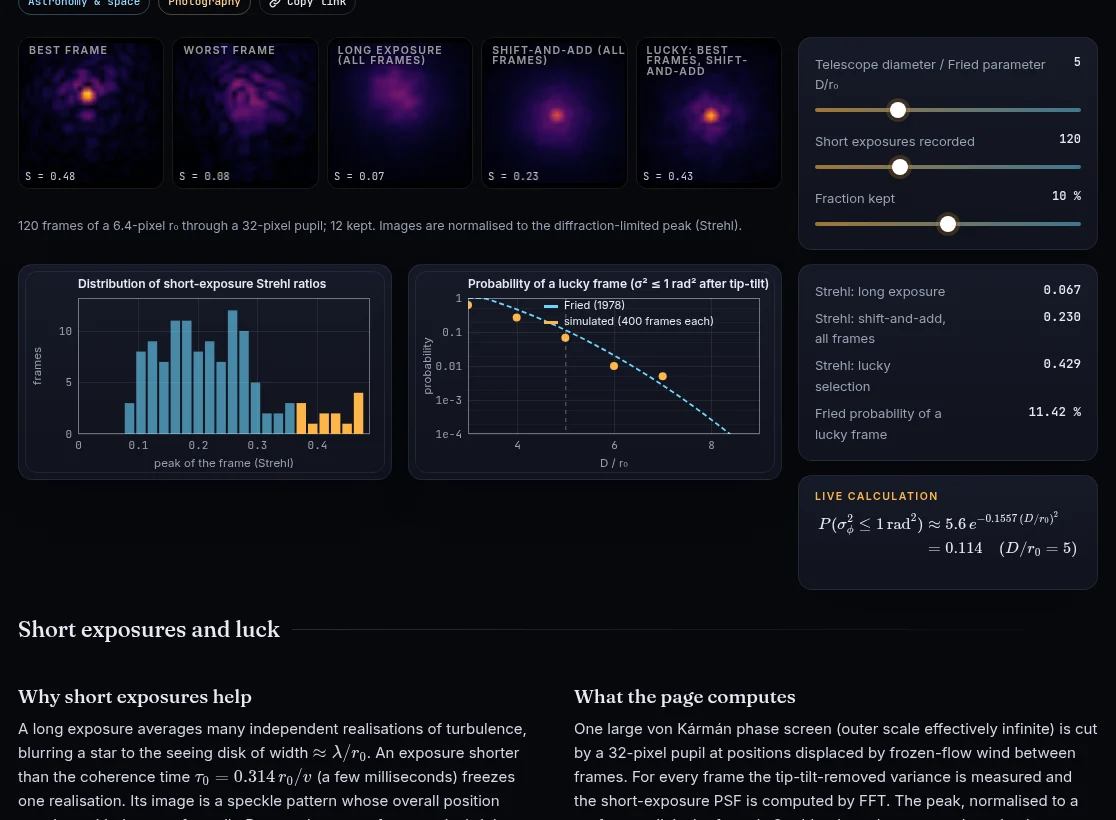
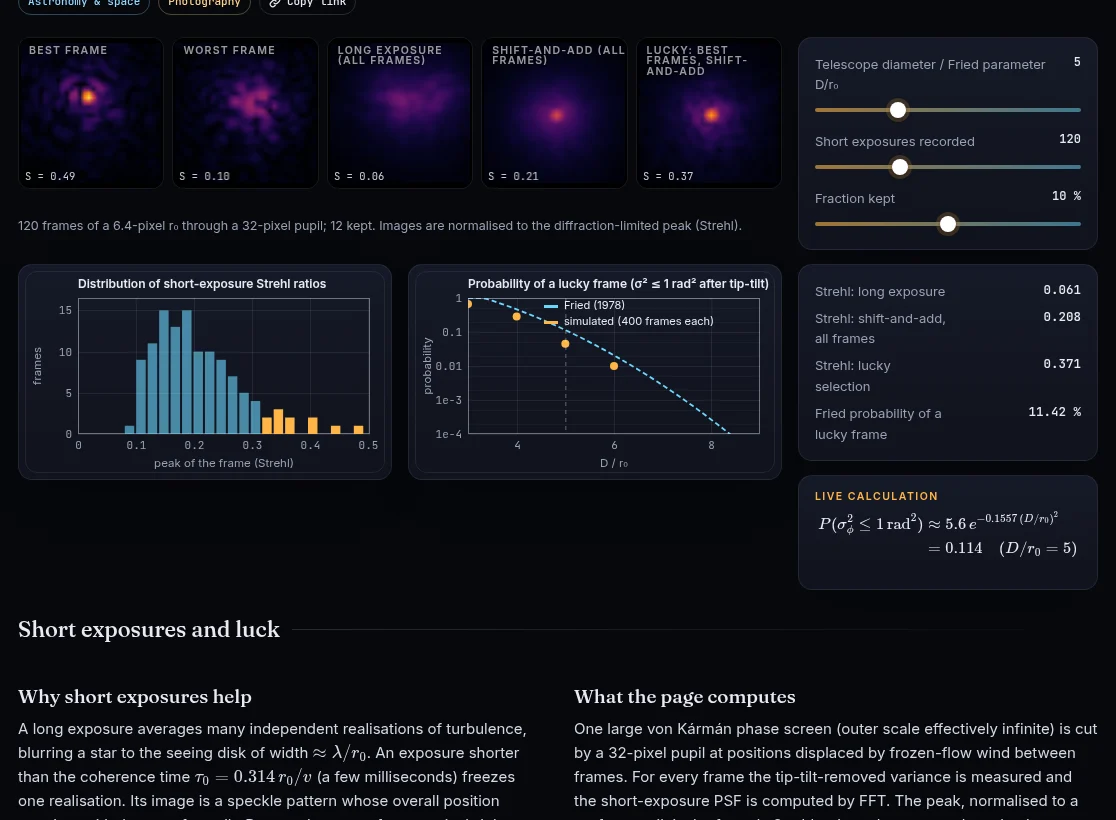
refactor: one seeded random-number generator for all simulations
Add js/lib/random.js (mulberry32 uniforms, Box–Muller normals, Poisson) and
use it everywhere instead of ten local 32-bit LCGs, whose consecutive outputs
fed to Box–Muller made sums of normal deviates ~8 % too wide. Add tests for
moments, serial correlation and Poisson statistics; regenerate affected
screenshots; consolidate the Unreleased changelog headings.

diff --git a/js/modules/noise.js b/js/modules/noise.js
@@ -1,24 +1,14 @@
 import { h, controls, stage, readouts, imageCanvas, fmt, texNum } from '../lib/ui.js';
 import { header, lab, theory, references, liveCalc } from '../lib/page.js';
 import { SENSORS, pitchUm } from '../lib/sensors.js';
+import { makeRng as sharedRng } from '../lib/random.js';
 import { plot, logRange } from '../lib/plot.js';
 
 const PHOTONS_PER_LUXS_UM2 = 1.2e4; // broadband daylight, 400–700 nm
 const K_METER = 12.5, T_LENS = 0.9;
 
-// Poisson sampler (Knuth for small means, Gaussian approximation above 40)
-function makeRng(seed) {
-  let s = seed >>> 0;
-  const u = () => { s = (s * 1664525 + 1013904223) >>> 0; return (s + 0.5) / 4294967296; };
-  const gauss = () => Math.sqrt(-2 * Math.log(u())) * Math.cos(2 * Math.PI * u());
-  const poisson = (l) => {
-    if (l > 40) return Math.max(0, Math.round(l + Math.sqrt(l) * gauss()));
-    const L = Math.exp(-l); let k = 0, p = 1;
-    do { k++; p *= u(); } while (p > L);
-    return k - 1;
-  };
-  return { u, gauss, poisson };
-}
+// Uniform, Gaussian and Poisson deviates from the shared seeded stream (js/lib/random.js)
+function makeRng(seed) { const r = sharedRng(seed); return { u: r.u, gauss: r.g, poisson: r.poisson }; }
 
 export default function mount(root, meta) {
   root.append(header({ ...meta, lede: 'Light arrives as photons, and photons arrive at random. Every pixel value is therefore a random variable whose spread is set by physics (shot noise) and by electronics (read noise, dark current, gain). Exposure sets the photon count, and ISO only decides where the analogue amplifier puts the clipping point. Here the full chain is simulated pixel by pixel.', domains: ['photo', 'video', 'space'] }));

diff --git a/js/lib/stacking.js b/js/lib/stacking.js
@@ -1,5 +1,6 @@
 // Astrophotography stacking: the CCD equation for a sum of N sub-exposures, sky brightness from
 // light pollution, and the sub-exposure length beyond which read noise stops mattering.
+import { makeRng } from './random.js';
 // Photon zero point: a V = 0 source delivers ≈ 1.0 × 10⁶ photons s⁻¹ cm⁻² in a 100 nm band.
 export const ZP = 1.0e6;
 // Bortle class → typical zenith sky brightness in V (mag/arcsec²).
@@ -18,13 +19,8 @@ export function stackSNR(Fo, Fs, Fd, sigma, t, N) {
 // σ_r² = ε F_s t  →  t = σ_r²/(ε F_s)  (ε = 0.1 ↔ ≈ 5 % in noise).
 export const skyLimitedSub = (Fs, sigma, eps = 0.1) => (sigma * sigma) / (eps * Fs);
 
-// Gaussian deviates for the image simulation: mulberry32 uniforms (a plain 32-bit LCG feeding
-// Box–Muller with consecutive outputs leaves correlations that bias sums of many draws).
-export function rng(seed) {
-  let a = seed >>> 0;
-  const u = () => { a = (a + 0x6d2b79f5) >>> 0; let t = a; t = Math.imul(t ^ (t >>> 15), t | 1); t ^= t + Math.imul(t ^ (t >>> 7), t | 61); return (((t ^ (t >>> 14)) >>> 0) + 0.5) / 4294967296; };
-  return () => Math.sqrt(-2 * Math.log(u())) * Math.cos(2 * Math.PI * u());
-}
+// Gaussian deviates for the image simulation (see js/lib/random.js).
+export function rng(seed) { return makeRng(seed).g; }
 // A faint galaxy (exponential disk, central μ₀, scale length h arcsec, inclination) plus stars,
 // rendered as an object-rate map (e⁻/s/pixel) for the given optics.
 export function galaxyRate(W, H, p, D, q, mu0, hArc) {

diff --git a/js/lib/detectors.js b/js/lib/detectors.js
@@ -1,14 +1,9 @@
 // Detector physics for space astronomy: up-the-ramp sampling of infrared arrays with cosmic-ray
 // jump detection, inter-pixel capacitance (IPC), charge-transfer inefficiency (CTI) in radiation-
 // damaged CCDs, and image persistence. Charges in electrons, times in seconds.
+import { makeRng } from './random.js';
 
-export function rng(seed) {
-  let s = seed >>> 0;
-  const u = () => { s = (s * 1664525 + 1013904223) >>> 0; return (s + 0.5) / 4294967296; };
-  const g = () => Math.sqrt(-2 * Math.log(u())) * Math.cos(2 * Math.PI * u());
-  const poisson = (mu) => { if (mu > 30) return Math.max(0, Math.round(mu + Math.sqrt(mu) * g())); const L = Math.exp(-mu); let k = 0, p = 1; do { k++; p *= u(); } while (p > L); return k - 1; };
-  return { u, g, poisson };
-}
+export function rng(seed) { return makeRng(seed); }
 
 // ── Up the ramp ─────────────────────────────────────────────────────────────────────────────
 // N non-destructive reads at t_i = i·dt (i = 1…N) of a pixel collecting f e⁻/s, read noise σ,

diff --git a/js/modules/cinema.js b/js/modules/cinema.js
@@ -3,6 +3,7 @@ import { header, lab, theory, references, liveCalc } from '../lib/page.js';
 import { plot, logRange } from '../lib/plot.js';
 import { oetf } from '../lib/color.js';
 import { COATINGS } from '../lib/thinfilm.js';
+import { uniform } from '../lib/random.js';
 import { anamorphicAspect, streakColour, angleOfView, breathing, surfaceReflectance, transmission, tStop } from '../lib/cinema.js';
 
 const D2R = Math.PI / 180;
@@ -26,7 +27,7 @@ export default function mount(root, meta) {
   const view = stage({ aspect: 2.39, label: '2.39 : 1 frame, 50 mm lens on an 18.7 mm-high gate, subject in focus', draw: drawScene, minH: 200 });
   root.append(lab([view.el], [h('div.card', {}, ctl.el), h('div.card', {}, ro), calc.el]));
 
-  const F = 50, GATE_H = 18.66, rnd = (() => { let s = 11; return () => { s = (s * 1664525 + 1013904223) >>> 0; return s / 4294967296; }; })();
+  const F = 50, GATE_H = 18.66, rnd = uniform(11);
   const LIGHTS = Array.from({ length: 70 }, () => ({ x: rnd() * 2 - 1, y: rnd() * 0.75 - 0.15, b: 0.3 + rnd() * 0.7, hue: rnd() }));
   let A = null;
   function update() {

diff --git a/js/lib/random.js b/js/lib/random.js
@@ -1,0 +1,27 @@
+// Seeded random numbers for every simulation. mulberry32 (T. Ettinger) passes the usual
+// statistical batteries; a plain 32-bit LCG feeding Box–Muller with consecutive outputs leaves
+// correlations that bias sums of many deviates (seen as a 4 % error in Monte-Carlo variances).
+export function uniform(seed) {
+  let a = seed >>> 0;
+  return () => {
+    a = (a + 0x6d2b79f5) >>> 0;
+    let t = a;
+    t = Math.imul(t ^ (t >>> 15), t | 1);
+    t ^= t + Math.imul(t ^ (t >>> 7), t | 61);
+    return (((t ^ (t >>> 14)) >>> 0) + 0.5) / 4294967296;
+  };
+}
+// Uniform, standard normal (Box–Muller) and Poisson deviates from one seeded stream.
+export function makeRng(seed) {
+  const u = uniform(seed);
+  const g = () => Math.sqrt(-2 * Math.log(u())) * Math.cos(2 * Math.PI * u());
+  const poisson = (mu) => {
+    if (mu <= 0) return 0;
+    if (mu > 30) return Math.max(0, Math.round(mu + Math.sqrt(mu) * g()));
+    const L = Math.exp(-mu);
+    let k = 0, p = 1;
+    do { k++; p *= u(); } while (p > L);
+    return k - 1;
+  };
+  return { u, g, poisson };
+}

diff --git a/js/lib/tolerance.js b/js/lib/tolerance.js
@@ -2,6 +2,7 @@
 // refractive indices; every trial is refocused (image distance as compensator) and scored by
 // the RMS real-ray error over fields and wavelengths (same merit as the optimiser).
 import { residuals } from './optimise.js';
+import { uniform } from './random.js';
 
 const rms = (r) => Math.sqrt(r.reduce((s, v) => s + v * v, 0) / r.length);
 function gaussian(rnd) { let u = 0, v = 0; while (u === 0) u = rnd(); v = rnd(); return Math.sqrt(-2 * Math.log(u)) * Math.cos(2 * Math.PI * v); }
@@ -17,8 +18,7 @@ export function refocus(lens, cfg, range = 0.5) {
 
 // tol = { radiusPct, thicknessUm, indexDelta } (1σ, Gaussian); trials; seed
 export function monteCarlo(lens, tol, trials = 60, seed = 1) {
-  let s = seed >>> 0 || 1;
-  const rnd = () => { s = (s * 1664525 + 1013904223) >>> 0; return (s + 0.5) / 4294967296; };
+  const rnd = uniform(seed >>> 0 || 1);
   const cfg = { efl: 0, eflWeight: 0, fields: [0, 0.7, 1], wavelengths: [486.13, 587.56, 656.27], rings: 2 };
   const nominal = refocus(lens, cfg);
   const scores = [];

diff --git a/js/lib/wfs.js b/js/lib/wfs.js
@@ -5,6 +5,7 @@
 import { fft2d } from './fft.js';
 import { noll } from './pupil.js';
 import { phaseScreen } from './turbulence.js';
+import { uniform } from './random.js';
 
 const nextPow2 = (v) => { let p = 1; while (p < v) p <<= 1; return p; };
 
@@ -238,8 +239,7 @@ export function createLoop({ Np = 120, NS = 512, D = 8, lamWFS = 600, Npsf = 256
   const dx = D / Np, base = phaseScreen(NS, dx, 0.1, 25, seed);
   let sys = null, sysKey = '', noiseKey = '', noiseVar = 0, st = null, kScr = 1;
   let shift = 0, t = 0, steps = 0, cmd = null, dm = new Float64Array(Np * Np), long = null, longN = 0, hist = [];
-  let s = 987654321;
-  const rand = () => { s = (s * 1664525 + 1013904223) >>> 0; return (s + 0.5) / 4294967296; };
+  const rand = uniform(987654321);
   const turbulence = () => {
     const out = new Float64Array(Np * Np), s0 = Math.floor(shift), f = shift - s0;
     for (let y = 0; y < Np; y++) for (let x = 0; x < Np; x++) {

diff --git a/js/lib/hdr.js b/js/lib/hdr.js
@@ -1,13 +1,10 @@
 // High dynamic range: a procedural high-contrast scene, neutral-density and graduated filters,
 // a photon-transfer camera model, exposure bracketing merged into radiance with inverse-variance
 // weights, global tone mapping, and exposure fusion (Mertens et al. 2007) with Laplacian pyramids.
+import { makeRng } from './random.js';
 
 // Seeded Gaussian deviates.
-export function gauss(seed) {
-  let s = seed >>> 0;
-  const u = () => { s = (s * 1664525 + 1013904223) >>> 0; return (s + 0.5) / 4294967296; };
-  return () => Math.sqrt(-2 * Math.log(u())) * Math.cos(2 * Math.PI * u());
-}
+export function gauss(seed) { return makeRng(seed).g; }
 
 // Scene radiance (linear RGB, arbitrary units: the dark foreground ≈ 1, the sky near the sun
 // ≈ 10³, the sun's disk ≈ 10⁵): a sunset over hills with a lit window in the foreground.

diff --git a/js/lib/shake.js b/js/lib/shake.js
@@ -2,12 +2,9 @@
 // Ornstein–Uhlenbeck angular velocity (drift, RMS σ_ω, correlation time τ) plus physiological
 // tremor (a narrow band near 10 Hz). A stabiliser servo follows the motion below its bandwidth
 // f_c and adds gyro noise. Angles in rad, times in s.
+import { makeRng } from './random.js';
 
-export function rng(seed) {
-  let s = seed >>> 0;
-  const u = () => { s = (s * 1664525 + 1013904223) >>> 0; return (s + 0.5) / 4294967296; };
-  return { u, g: () => Math.sqrt(-2 * Math.log(u())) * Math.cos(2 * Math.PI * u()) };
-}
+export function rng(seed) { const r = makeRng(seed); return { u: r.u, g: r.g }; }
 
 // Angular trajectory θ(t) for one axis, sampled at dt over duration T.
 // o = { sigma (rad/s RMS drift velocity), tau (s), tremor (rad/s RMS), ftrem (Hz) }

diff --git a/js/lib/turbulence.js b/js/lib/turbulence.js
@@ -1,12 +1,9 @@
 // Atmospheric turbulence: seeded Gaussian random numbers and von Kármán phase screens.
 import { fft2d } from './fft.js';
+import { makeRng } from './random.js';
 
-// Gaussian random numbers (Box–Muller) from a seeded generator
-export function rng(seed) {
-  let s = seed >>> 0;
-  const u = () => { s = (s * 1664525 + 1013904223) >>> 0; return (s + 0.5) / 4294967296; };
-  return () => Math.sqrt(-2 * Math.log(u())) * Math.cos(2 * Math.PI * u());
-}
+// Gaussian random numbers from a seeded stream (see js/lib/random.js)
+export function rng(seed) { return makeRng(seed).g; }
 
 // von Kármán phase screen (radians at 500 nm), FFT method + 3 levels of subharmonics
 // (Lane, Glindemann & Dainty 1992; Schmidt 2010, ft_sh_phase_screen).

diff --git a/js/lib/film.js b/js/lib/film.js
@@ -3,10 +3,8 @@
 // when it absorbs at least `hits` photons (Poisson with mean H·πr²·q). Developed grains are
 // opaque discs, so each layer transmits the uncovered fraction (Boolean model) and the optical
 // density follows Nutting's law D = 0.434 N a at low coverage.
-export function rng(seed) {
-  let s = seed >>> 0;
-  return () => { s = (s * 1664525 + 1013904223) >>> 0; return (s + 0.5) / 4294967296; };
-}
+import { uniform } from './random.js';
+export function rng(seed) { return uniform(seed); }
 const poissonCDF = (mu, k) => { let t = Math.exp(-mu), s = t; for (let i = 1; i < k; i++) { t *= mu / i; s += t; } return s; };
 
 // Probability that a grain of radius r (µm) is developable at exposure H (photons/µm²).

diff --git a/CHANGELOG.md b/CHANGELOG.md
@@ -7,6 +7,7 @@ The format follows [Keep a Changelog](https://keepachangelog.com/en/1.1.0/), and
 ## [Unreleased]
 
 ### Added
+- Tests (`test/random.test.mjs`): uniform and normal moments, no serial correlation (variance of sums of 20 normals, lag-1 autocorrelation), and Poisson mean = variance.
 - **Astrophotography stacking laboratory** (`#/stacking`, `js/lib/stacking.js`). It applies the CCD equation for N sub-exposures (object, sky, dark current, read noise). Sky brightness comes from the Bortle class through a V-band photon zero point, and the sky-limited sub length is t = σ²/(0.1 F_sky). A spiral galaxy with stars is rendered as one sub vs the stack (same stretch), with SNR curves vs sub length for four sky classes and vs total time. The catalogue gains *Image stacking (√N)*, and *Sky background & light pollution* links here. The random numbers use mulberry32: a plain LCG feeding Box–Muller left correlations that biased Monte-Carlo sums by 4 %.
 - Tests (`test/stacking.test.mjs`): Monte-Carlo stack SNR and image noise match the CCD equation; σ_r² = 0.1 F_s t at the sky-limited length; 4× the time gives 2× the SNR; Bortle 4 vs 8 gives × 10^(0.2Δμ).
 - **Lucky imaging laboratory** (`#/lucky`, `js/lib/lucky.js`). Short exposures are cut by a pupil from a frozen-flow phase screen, with tip-tilt-removed variance and FFT PSF per frame, ranked by Strehl. The page shows the best and worst frames, the long exposure, shift-and-add of all frames and the lucky selection, a Strehl histogram, and the simulated probability of a lucky frame against Fried's formula. Computed in the worker, with the probability curve cached. *Lucky imaging & speckle interferometry* in the catalogue now links here.
@@ -26,6 +27,9 @@ The format follows [Keep a Changelog](https://keepachangelog.com/en/1.1.0/), and
   - **Catalogue:** two new entries.
 - Tests (`test/interferometry.test.mjs`): the Betelgeuse diameter and null, summed fringes vs |2J₁(x)/x|, an east–west baseline from the pole tracing a circle of radius B/λ, the EHT resolution ≈ 25 µas, the dirty-beam normalisation, and CLEAN recovering a binary's flux ratio.
 - `scripts/worktree.sh`: one git worktree per branch. `new <type>/<name>` creates the branch from a freshly fetched `origin/main`, without an upstream, in `../Optica-Viva.worktrees/`. `finish` checks that the PR was merged, then removes the worktree and local branch, prunes and fast-forwards `main`. CONTRIBUTING.md and CLAUDE.md now describe this workflow.
+
+### Changed
+- All simulations now draw their random numbers from one seeded generator, `js/lib/random.js` (mulberry32 uniforms, Box–Muller normals, Poisson). This replaces ten local copies of a 32-bit LCG whose consecutive outputs, fed to Box–Muller, were correlated: sums of 20 deviates came out about 8 % too high in variance. That affected the phase screens (seeing, AO, lucky imaging), sensor noise, HDR brackets, camera shake, film grain, detector ramps and tolerancing. Random realisations on those pages change; all physics tests pass unchanged.
 
 ### Fixed
 - `scripts/worktree.sh` runs from the main checkout (so `finish` works when called from inside the worktree it removes) and tolerates GitHub deleting the merged branch first.
